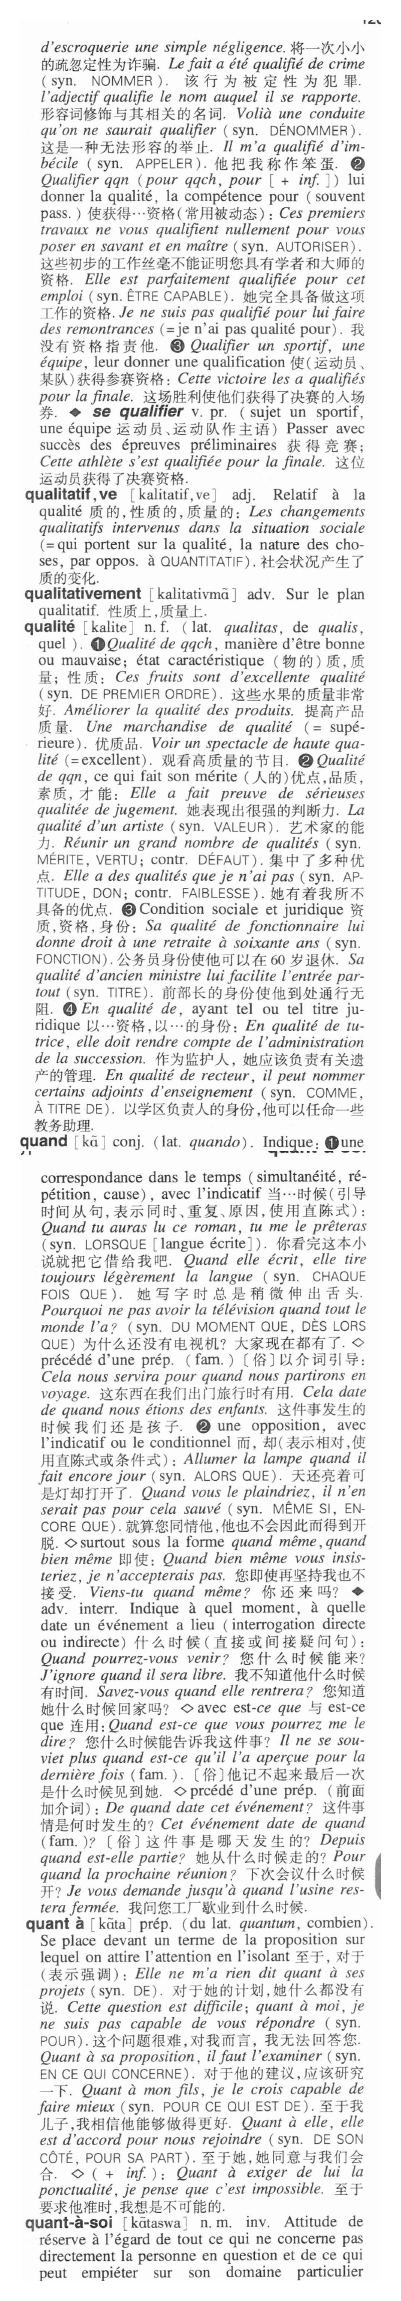
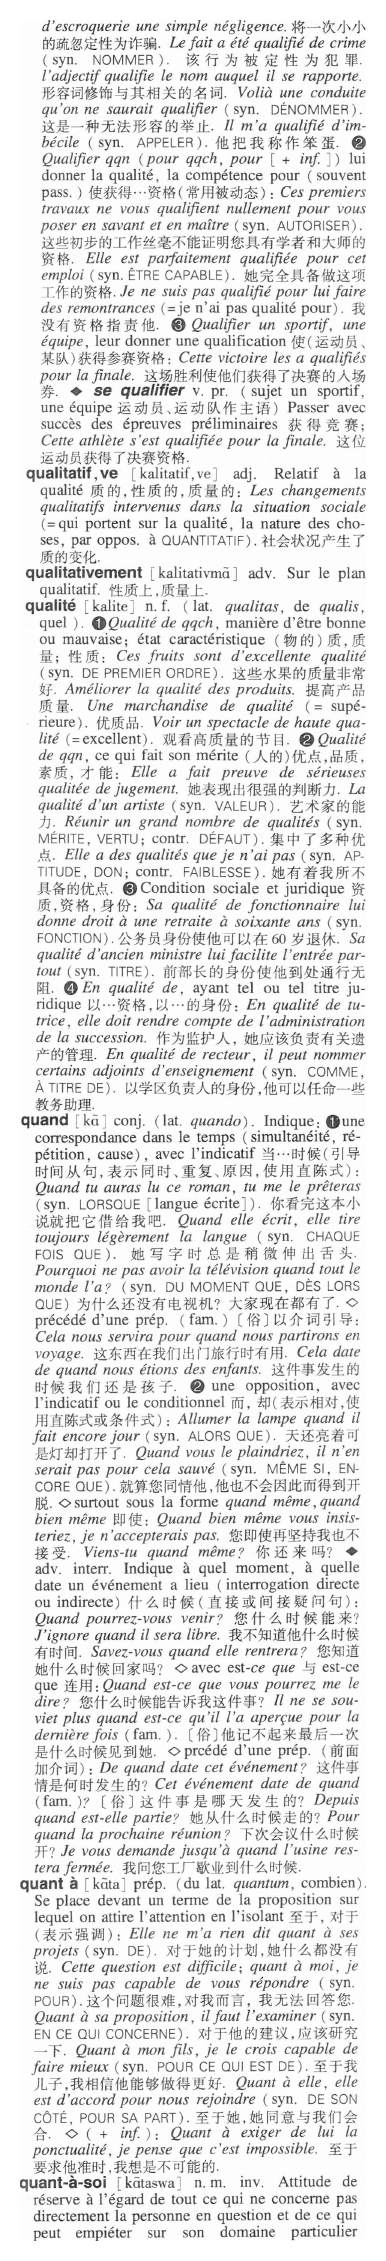
mobile first yeah!

diff --git a/larousse/croissant.py b/larousse/croissant.py
@@ -36,30 +36,32 @@ def pic_concat(pics, out_name):
         new_im.paste(im, (max_width-im.size[0],y_offset))
         y_offset += im.size[1]
     new_im = add_margin(new_im)
-    #new_im.show()
+    new_im.show()
     new_im.save(out_name)
 
 def odd_pic(p_name):
     im = Image.open(p_name)
     im = trim(im)
+    #im.show()
     w,h = im.size 
-    top = 5
+    top = 10
     while True:
         t = im.crop((0,top,w,h))
         print(t.size)
-        if t.size[1] - trim(t).size[1] > 5:
+        if t.size[1] - trim(t).size[1] > 4:
             break
         top += 1
     print(top)
-
-    right = 30
+    right = 10
     while True:
+        break
         t = im.crop((0,top,w-right,h))
         if t.size[0]-trim(t).size[0] > 5:
             break
         right += 1
-    print(right)
-    
+    print("right",right)
+    right = 62
+    #im.show()
     im = im.crop((0,top,w-right,h))
     w,h = im.size
     m = w/2 + 20
@@ -81,7 +83,7 @@ def even_pic(p_name):
     im = Image.open(p_name)
     im = trim(im)
     w,h = im.size 
-    top = 5
+    top = 30
     while True:
         t = im.crop((0,top,w,h))
         if t.size[1] - trim(t).size[1] > 5:
@@ -111,8 +113,8 @@ def even_pic(p_name):
     
     im1 = im.crop((0,0,m,h))
     im2 = im.crop((m,0,w,h))
-    #pic_concat([im1,im2],"m-"+p_name)
-#1657
+    pic_concat([im1,im2],"m-"+p_name)
+
 def cut(i):
     p_name = "larousse-%04d.png"%i
     print("id=%d"%i)
@@ -121,12 +123,24 @@ def cut(i):
     else:
         even_pic(p_name)
 
-for i in range(10000,1657,2):
-    if i in [68,470,740,846,892,1362]:
-        continue
-    cut(i)
+for i in [68,470,740,846,892,1362]:
+    pass
+    #cut(i)
 
-for i in range(1655,1657,2):
-    if i in [167,263,327,385,617,757,845,861,1261,1431,1447,1459,1479,1507,1527,1531,1535,1575,1591,1625,1629,1639,1655]:
-        continue
-    cut(i)  
+for i in [1261,1431,1447,1459,1479,1507,1527,1531,1535,1575,1591,1625,1629,1639,1655]:
+    break
+    cut(i)
+#cut(1431)
+#cut(1447)
+#cut(1459)
+#cut(1479)
+#cut(1507)
+#cut(1527)
+#cut(1531)
+#cut(1535)
+#cut(1575)
+#cut(1591)
+#cut(1625)
+#cut(1629)
+#cut(1639)
+cut(1655)
